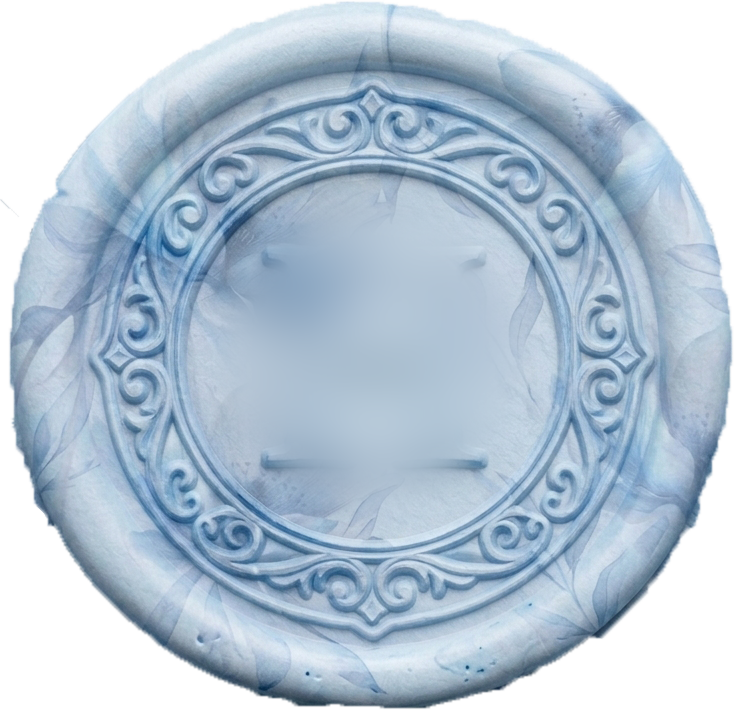
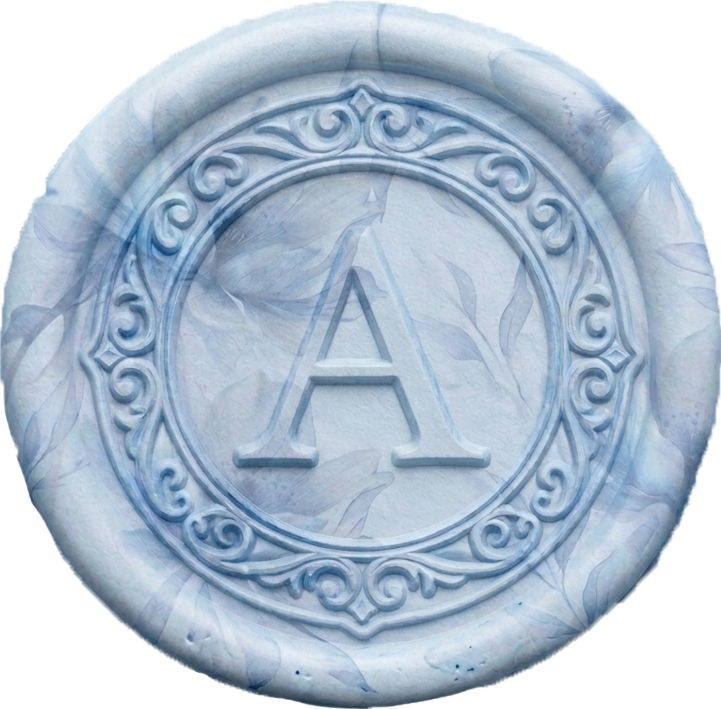
Новые печати с вытисненной «А» для Айдай и Айгерим
Накладная буква текстом больше не нужна — убрана из разметки и стилей.

diff --git a/sites/aiday-qyzuzatuu/css/style.css b/sites/aiday-qyzuzatuu/css/style.css
@@ -145,7 +145,7 @@ p{ margin:0; }
   position:absolute;
   left:50%; top:64.77%;        /* вершина створки */
   width:calc(118 * var(--u));  /* размер от колонки, а не от конверта */
-  aspect-ratio:734/710;
+  aspect-ratio:721/709;
   transform:translate(-50%,-50%);
   padding:0; border:0; background:none;
   cursor:pointer;
@@ -153,18 +153,6 @@ p{ margin:0; }
   animation:sealPulse 2.8s ease-in-out infinite;
 }
 .seal img{ width:100%; }
-/* инициал на печати — текст, а не картинка: меняется одной буквой в index.html */
-.seal__initial{
-  position:absolute;
-  left:50.4%; top:49.6%;
-  transform:translate(-50%,-52%);
-  font-family:var(--serif);
-  font-size:calc(58 * var(--u));
-  line-height:1;
-  color:#E4EEF7;
-  text-shadow:0 calc(-1 * var(--u)) 0 rgba(255,255,255,.95),
-              0 calc(2 * var(--u)) calc(3 * var(--u)) rgba(96,134,180,.6);
-}
 /* подсказка: стрелка на печать и надпись внизу */
 .env__hint{
   position:absolute;

diff --git a/sites/aigerim-qyzuzatuu/css/style.css b/sites/aigerim-qyzuzatuu/css/style.css
@@ -145,7 +145,7 @@ p{ margin:0; }
   position:absolute;
   left:50%; top:64.77%;        /* вершина створки */
   width:calc(118 * var(--u));  /* размер от колонки, а не от конверта */
-  aspect-ratio:734/710;
+  aspect-ratio:721/709;
   transform:translate(-50%,-50%);
   padding:0; border:0; background:none;
   cursor:pointer;

diff --git a/sites/aiday-qyzuzatuu/index.html b/sites/aiday-qyzuzatuu/index.html
@@ -26,7 +26,6 @@
     <div class="env__flap">
       <button class="seal" id="sealBtn" type="button" aria-label="Басыңыз — чакырууну ачуу">
         <img src="assets/img/env-seal.png" alt="">
-        <span class="seal__initial">А</span>
       </button>
     </div>
   </div>

diff --git a/sites/aigerim-qyzuzatuu/index.html b/sites/aigerim-qyzuzatuu/index.html
@@ -26,7 +26,6 @@
     <div class="env__flap">
       <button class="seal" id="sealBtn" type="button" aria-label="Басыңыз — чакырууну ачуу">
         <img src="assets/img/env-seal.png" alt="">
-        <span class="seal__initial">А</span>
       </button>
     </div>
   </div>
